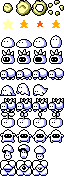
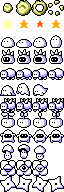
Spinner enemy

diff --git a/src/enemy.ts b/src/enemy.ts
@@ -44,7 +44,7 @@ export class Enemy extends CollisionObject {
     protected canBeSpun : boolean;
     protected knockOnStomp : boolean;
 
-    private ghost : boolean;
+    protected ghost : boolean;
 
     private forceReset : boolean;
     private oldCameraState : boolean;
@@ -251,6 +251,9 @@ export class Enemy extends CollisionObject {
     }
 
 
+    protected preDraw(canvas : Canvas) {}
+
+
     public draw(canvas : Canvas) {
 
         if (!this.exist || !this.inCamera) 
@@ -268,6 +271,8 @@ export class Enemy extends CollisionObject {
 
             canvas.setGlobalAlpha(0.67);
         }
+
+        this.preDraw(canvas);
 
         let px = Math.round(this.pos.x) - this.spr.width/2;
         let py = Math.round(this.pos.y) - this.spr.height/2;
@@ -1018,6 +1023,94 @@ export class FakeBlock extends Enemy {
 }
 
 
-const ENEMY_TYPES = [Slime, SpikeSlime, Turtle, Seal, SpikeTurtle, Apple, Imp, Mushroom, FakeBlock];
+export class Spinner extends Enemy {
+
+
+    static RADIUS = 16;
+
+
+    private angle : number;
+
+
+    constructor(x : number, y : number, entityID : number) {
+
+        super(x, y, 9, entityID, true);
+
+        this.center = new Vector2(0, 0);
+        this.hitbox = new Vector2(8, 8);
+
+        this.canBeKnockedDown = false;
+        this.canBeSpun = false;
+        this.canBeStomped = false;
+
+        this.angle = 0;
+
+        this.offCameraRadius = Spinner.RADIUS*2;
+
+        this.disableCollisions = true;
+        
+        this.respawnEvent();
+    }
+
+
+    private computePosition() {
+
+        this.pos.x = this.startPos.x + Math.round(Math.cos(this.angle) * Spinner.RADIUS * this.dir);
+        this.pos.y = this.startPos.y + Math.round(Math.sin(this.angle) * Spinner.RADIUS);
+    }
+
+
+    protected respawnEvent() {
+        
+        this.angle = (this.startPos.y % 360) / 360.0 * (Math.PI * 2);
+        this.dir = ((this.startPos.x / 16) | 0) % 2 == 0 ? 1 : -1;
+
+        this.computePosition();
+    }
+
+
+    protected updateAI(event : CoreEvent) { 
+
+        const ANIM_SPEED = 8;
+        const ROTATION_SPEED = 0.05;
+
+        this.angle = (this.angle + ROTATION_SPEED * event.step) % (Math.PI * 2);
+        this.computePosition();
+
+        let startFrame = this.dir < 0 ? 0 : 2;
+        this.spr.animate(this.spr.getRow(), 
+            startFrame, startFrame+1,
+             ANIM_SPEED, event.step);
+    }
+
+
+    protected preDraw(canvas : Canvas) {
+
+        const CHAIN_PIECE_COUNT = 3;
+
+        let radiusStep = Spinner.RADIUS / (CHAIN_PIECE_COUNT);
+
+        let bmp = canvas.assets.getBitmap("enemies");
+
+        let r = 0;
+        let x : number;
+        let y : number;
+        for (let i = 0; i < CHAIN_PIECE_COUNT; ++ i) {
+
+            x = this.startPos.x + Math.round(Math.cos(this.angle) * this.dir * r);
+            y = this.startPos.y + Math.round(Math.sin(this.angle) * r);
+
+            canvas.drawSpriteFrame(this.spr, bmp, 
+                4, this.spr.getRow(),
+                x-8, y-8);
+
+            r += radiusStep;
+        }
+    }
+}
+
+
+
+const ENEMY_TYPES = [Slime, SpikeSlime, Turtle, Seal, SpikeTurtle, Apple, Imp, Mushroom, FakeBlock, Spinner];
 
 export const getEnemyType = (index : number) : Function => ENEMY_TYPES[clamp(index, 0, ENEMY_TYPES.length-1)];

diff --git a/src/player.ts b/src/player.ts
@@ -427,7 +427,8 @@ export class Player extends CollisionObject {
 
     private spin(event : CoreEvent) : boolean {
 
-        if (this.climbing || this.throwing) return false;
+        if (this.climbing || this.throwing || this.downAttacking ||
+            this.downAttackWaitTimer > 0) return false;
 
         let s = event.input.getAction("fire3");
         if (this.spinning) {
